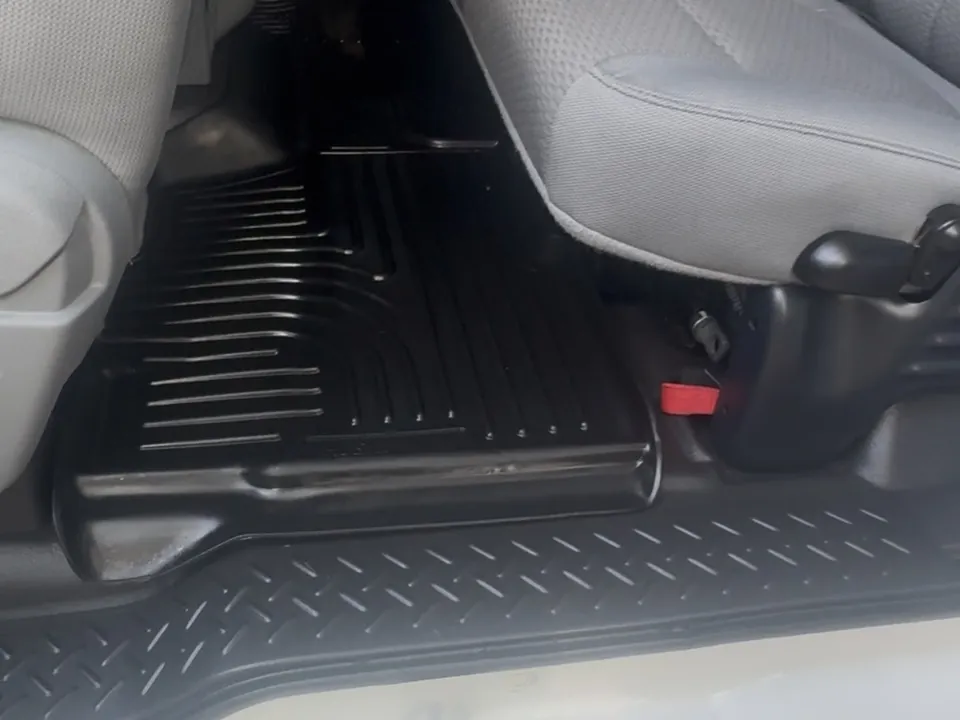
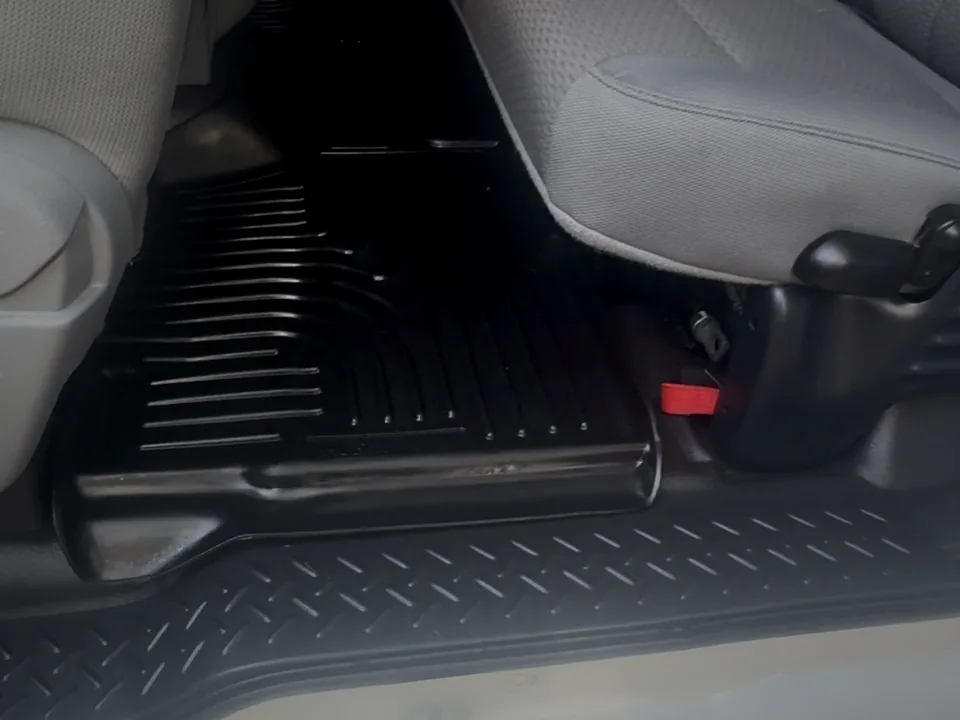
Redesign gallery to dark editorial style per owner direction
- Removed: both working shots, interior photo, wash photo
- Before/After pair regraded like editorial photography: BEFORE cold
  and desaturated with heavy vignette, AFTER rich and deep-contrast -
  the transformation reads as intentional design
- Sunlight mats shot kept (owner pick), graded warm/dark to match
- New abstract texture tile: macro crop of the glossy clean mat ribs -
  reads as product photography
- New statement tile: gold serif 'Your vehicle, photographed next'
  linking to #booking (gallery now ends in a conversion CTA)
- Logo/Instagram tile unchanged

Claude-Session: https://claude.ai/code/session_01DagYAXUsHWFQdPueX5TNVh

diff --git a/index.html b/index.html
@@ -704,6 +704,30 @@
       text-align: center;
       margin-top: 36px;
     }
+    .gallery-statement {
+      background: linear-gradient(145deg, #141414 0%, #0b0b0b 60%),
+                  radial-gradient(ellipse at 30% 20%, rgba(201,168,76,0.10), transparent 60%);
+      text-decoration: none;
+      padding: 24px;
+    }
+    .gallery-statement .gs-title {
+      font-family: 'Cormorant Garamond', serif;
+      font-style: italic;
+      font-size: clamp(1.3rem, 2.4vw, 1.8rem);
+      color: var(--gold);
+      text-align: center;
+      line-height: 1.25;
+    }
+    .gallery-statement .gs-sub {
+      font-size: 0.62rem;
+      font-weight: 700;
+      letter-spacing: 0.22em;
+      text-transform: uppercase;
+      color: var(--text-muted);
+      margin-top: 10px;
+      text-align: center;
+    }
+    .gallery-statement:hover .gs-title { color: var(--gold-light); }
 
     /* ── REVIEWS ── */
     .reviews { background: #0e0e0e; border-top: 1px solid var(--card-border); }
@@ -1412,11 +1436,11 @@
 
   <div class="gallery-grid fade-up delay-3">
     <div class="gallery-item">
-      <img src="/assets/gallery/before-rear.webp" alt="Dirty truck floor mat before detailing — Houston mobile detailing" loading="lazy" />
+      <img src="/assets/gallery/before-rear.webp" alt="Truck floor before Esplendor Detailing" loading="lazy" />
       <span class="gallery-badge"><span class="en">Before</span><span class="es">Antes</span></span>
     </div>
     <div class="gallery-item">
-      <img src="/assets/gallery/after-rear.webp" alt="Spotless truck floor after Esplendor Detailing service" loading="lazy" />
+      <img src="/assets/gallery/after-rear.webp" alt="Truck floor restored to spotless after detailing" loading="lazy" />
       <span class="gallery-badge"><span class="en">After</span><span class="es">Después</span></span>
     </div>
     <a class="gallery-item" href="https://instagram.com/esplendordetailing" target="_blank" rel="noopener" style="text-decoration:none;">
@@ -1424,17 +1448,22 @@
       <span class="gallery-badge">@esplendordetailing</span>
     </a>
     <div class="gallery-item">
-      <img src="/assets/gallery/interior-front.webp" alt="Clean truck interior after detailing — seats and dash" loading="lazy" />
-      <span class="gallery-badge"><span class="en">Interior</span><span class="es">Interior</span></span>
+      <img src="/assets/gallery/mats-sun.webp" alt="Restored floor mats finished to showroom condition" loading="lazy" />
+      <span class="gallery-badge"><span class="en">Restored</span><span class="es">Como Nuevo</span></span>
     </div>
     <div class="gallery-item">
-      <img src="/assets/gallery/action-scrub.webp" alt="Deep scrubbing floor mats with drill brush" loading="lazy" />
-      <span class="gallery-badge"><span class="en">Deep Clean</span><span class="es">Limpieza Profunda</span></span>
+      <img src="/assets/gallery/texture.webp" alt="Close-up of deep-cleaned floor mat texture" loading="lazy" />
+      <span class="gallery-badge"><span class="en">Every Detail</span><span class="es">Cada Detalle</span></span>
     </div>
-    <div class="gallery-item">
-      <img src="/assets/gallery/action-wash.webp" alt="Mobile detailing at your driveway — pressure washing in Houston" loading="lazy" />
-      <span class="gallery-badge"><span class="en">We Come To You</span><span class="es">Vamos a Ti</span></span>
-    </div>
+    <a class="gallery-item gallery-statement" href="#booking">
+      <div>
+        <div class="gs-title en">Your vehicle,<br>photographed next.</div>
+        <div class="gs-title es">Tu vehículo,<br>el próximo en brillar.</div>
+        <div class="gs-sub en">Reserve your detail →</div>
+        <div class="gs-sub es">Reserva tu detallado →</div>
+      </div>
+      <span class="gallery-badge"><span class="en">Book Now</span><span class="es">Reservar</span></span>
+    </a>
   </div>
 
   <div class="gallery-cta fade-up">